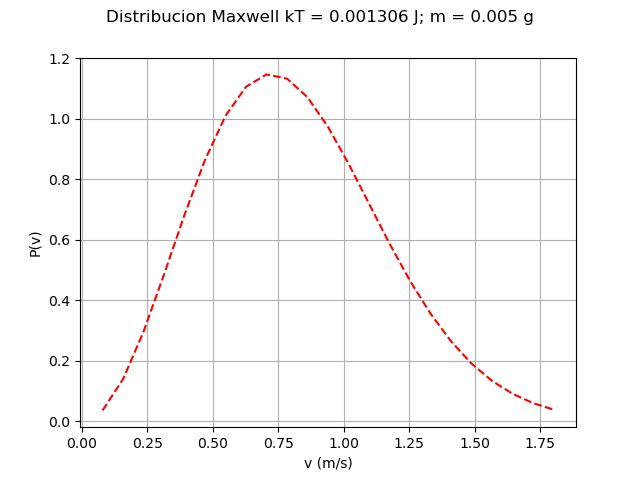
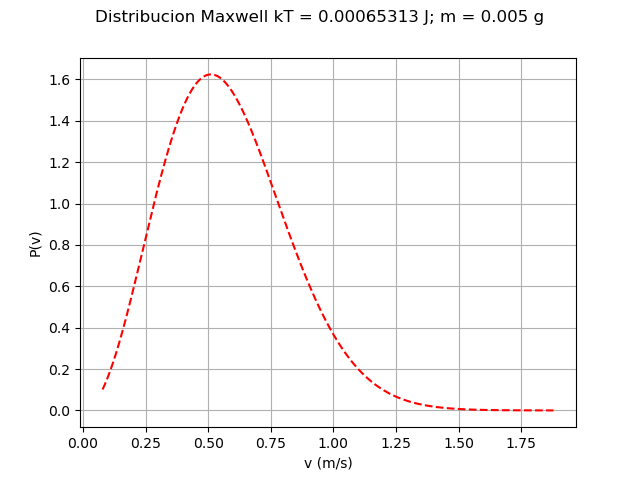
FinCodigoEfectoFotoelectrico

diff --git a/Bloque Cuantica-Estadistica/P1B Fotoelectrico/P2.py b/Bloque Cuantica-Estadistica/P1B Fotoelectrico/P2.py
@@ -14,19 +14,25 @@ pth = "Data/Parte 2/"
 dataNames = np.array(os.listdir(pth))
 dataList = []
 for i in range(6):
-    dataList.append(herr.TTD(pth +dataNames[i])) # Se han conseguido en orden de alfa creciente
+    dataList.append(np.array(herr.TTD(pth +dataNames[i]),dtype = float)) # Se han conseguido en orden de alfa creciente
 #%% Ajustes
 # Hay que obtener I a partir de la V medida de la corriente
-"""
-nu = np.array(finalPuntos[0], dtype = float)
-V = np.array(finalPuntos[1], dtype = float)
-p, cov = np.polyfit(nu, V, 1, cov = True)
-errs = np.sqrt(np.diag(cov))
-chi = scis.chisquare(np.polyval(p,nu), V) [1] # Esto es chi cuadrado
-"""
+
+
+
+
 # Hay que obtener los errores
 #%% Graficas
 for i in range(6):
-    fig,ax = herr.BasicCanvas(dataNames[i], "V (V)", "I (nA)")
-    ax.scatter(dataList[i][0], dataList[i][1], s = 8)
+    V = dataList[i][0]
+    I = dataList[i][1]  # * 10E-9 # Revertimos amplificacion y dividimos por R. Al estar en nanos esta listo
+    p, cov = np.polyfit(V, I, 1, cov = True)
+    chi = scis.chisquare(np.polyval(p,V), I) [1] # Esto es chi cuadrado
+    errs = np.sqrt(np.diag(cov))
+    ajusteLabel = r"$I(V) =({} \pm {} ) I + ({} \pm {}) $".format(round(p[0]), round(errs[0]),round(p[1]), round(errs[1]))
+    fig,ax = herr.BasicCanvas(dataNames[i][:-4], "V (V)", "I (nA)")
+    ax.scatter(dataList[i][0], dataList[i][1], s = 10)
+    ax.plot(V, np.polyval(p, V), color = "red", linestyle = "dashed", label = ajusteLabel)
+    ax.plot(V[0],I[0], linewidth = 0, label = r"$R^2 = {}$".format(round(chi,5)))
+    ax.legend()
     fig.show()

diff --git a/Bloque Cuantica-Estadistica/P1B Fotoelectrico/P3.py b/Bloque Cuantica-Estadistica/P1B Fotoelectrico/P3.py
@@ -1,0 +1,32 @@
+# -*- coding: utf-8 -*-
+"""
+Parte 3: Estudio del filtro en las graficas I-V
+"""
+import numpy as np
+import matplotlib.pyplot as plt
+import Herramientas as herr
+import scipy.stats as scis
+import os as os
+
+plt.close("all")
+#%% Llamada a los datos
+pth = "Data/Parte 3/"
+dataNames = np.array(os.listdir(pth))
+dataList = []
+for i in range(3):
+    dataList.append(np.array(herr.TTD(pth + dataNames[i]),dtype = float)) # Se han conseguido en orden de alfa creciente
+
+#%% Graficas
+for i in range(6):
+    V = dataList[i][0]
+    I = dataList[i][1]
+    p, cov = np.polyfit(V, I, 1, cov = True)
+    chi = scis.chisquare(np.polyval(p,V), I) [1] # Esto es chi cuadrado
+    errs = np.sqrt(np.diag(cov))
+    ajusteLabel = r"$I(V) =({} \pm {} ) I + ({} \pm {}) $".format(round(p[0]), round(errs[0]),round(p[1]), round(errs[1]))
+    fig,ax = herr.BasicCanvas(dataNames[i][:-4], "V (V)", "I (nA)")
+    ax.scatter(dataList[i][0], dataList[i][1], s = 15)
+    #ax.plot(V, np.polyval(p, V), color = "red", linestyle = "dashed", label = ajusteLabel)
+    #ax.plot(V[0],I[0], linewidth = 0, label = r"$R^2 = {}$".format(round(chi,5)))
+    ax.legend()
+    fig.show()

diff --git a/Bloque Cuantica-Estadistica/P1B Fotoelectrico/P1.py b/Bloque Cuantica-Estadistica/P1B Fotoelectrico/P1.py
@@ -14,6 +14,10 @@ plt.close("all")
 pth = "Data/Parte 1/"
 todosPuntos = herr.TTD(pth +"todosPuntos.txt")
 finalPuntos = herr.TTD(pth + "AjusteFinal.txt")
+
+errV = 0.03 # Considero alto por el baile que hacia
+# errf = # Con propagacion de errores se dispara 
+
 #%% Ajustes
 nu = np.array(finalPuntos[0], dtype = float)
 V = np.array(finalPuntos[1], dtype = float)
@@ -25,8 +29,9 @@ chi = scis.chisquare(np.polyval(p,nu), V) [1] # Esto es chi cuadrado
 #%% Graficas
 fig,ax = herr.BasicCanvas("Potecial de frenado para distintas frecuencias", r"$\nu \ (Hz)$", "V (Volts)")
 ax.scatter(nu,V,s = 8)
-ajusteLabel = r"$V(\nu) =({} \pm {} ) + ({} \pm {}) $".format(round(p[0],17), round(errs[0],17),round(p[1],2), round(errs[1],2))
+ajusteLabel = r"$V(\nu) =({} \pm {} ) \nu + ({} \pm {}) $".format(round(p[0],17), round(errs[0],17),round(p[1],2), round(errs[1],2))
 ax.plot(nu, np.polyval(p, nu), color = "red", linestyle = "dashed", label = ajusteLabel)
-ax.plot(nu[0],V[0], label = r"$R^2 = {}$".format(chi))
+ax.plot(nu[0],V[0], linewidth = 0, label = r"$R^2 = {}$".format(chi))
+ax.errorbar(nu,V,errV * np.ones(len(V)), fmt = "none", capsize = 8)
 ax.legend()
 fig.show()

diff --git a/Bloque Cuantica-Estadistica/P7 Maxwell/Maxwell.py b/Bloque Cuantica-Estadistica/P7 Maxwell/Maxwell.py
@@ -11,10 +11,11 @@ plt.close("all")
 y = 0.08 # m
 g = 9.81 # m/s^2
 d = 0.01 # m. Abertura de las celdas
+multiplier = 1E-4 # Para que haya mas detalle en las gracias
 kT = 6.5313E-4 # Obtenido de vm = sqrt(2kT/m)
 
 N = 508
-x = np.arange(0.01,0.24,d)
+x = np.arange(0.01,0.24,d*multiplier) # Suponemos que las bolitas salen 
 v = x*np.sqrt(g/(2*y))
 vm = 0.313
 m = 0.6/45
